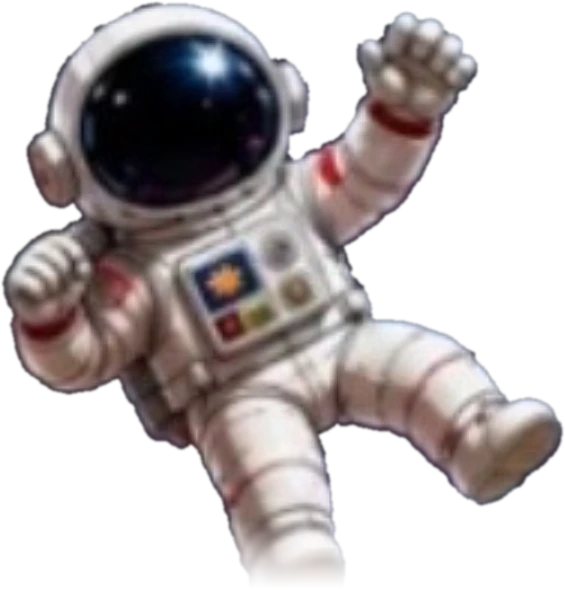
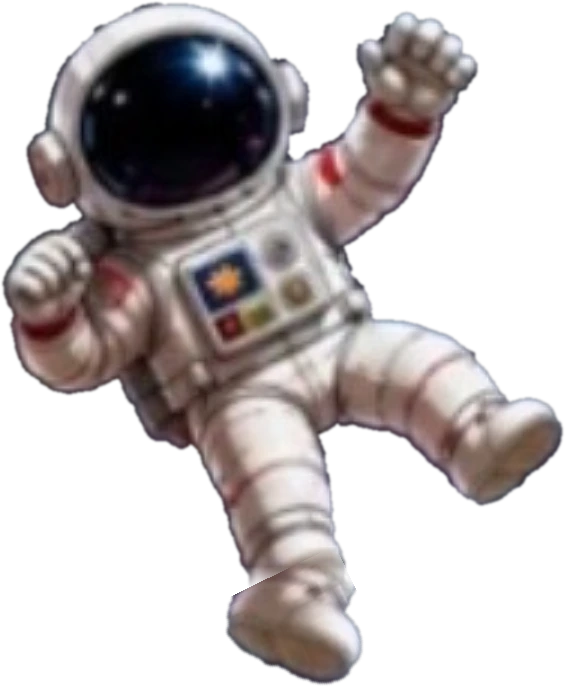
Young Explorers: astronaut's left foot completed with a boot, bus front finished (second eye, headlight, fender, bumper end)

diff --git a/designs/young-explorers-early-learning-academy/index.html b/designs/young-explorers-early-learning-academy/index.html
@@ -93,7 +93,7 @@
   .hero-art { --bleed: 0px; --bus: 0.94; }
   .bus-wrap { position: relative; z-index: 1; width: calc((100% + var(--bleed)) * var(--bus)); margin-left: auto; margin-right: calc(-1 * var(--bleed)); animation: hover 5s ease-in-out infinite; }
   .hero-art .bus { display: block; width: 100%; height: auto; filter: drop-shadow(0 18px 24px rgba(0,0,0,.45));
-    -webkit-mask-image: linear-gradient(to right, transparent 0, #000 9%, #000 94%, transparent 100%); mask-image: linear-gradient(to right, transparent 0, #000 9%, #000 94%, transparent 100%); }
+    -webkit-mask-image: linear-gradient(to right, transparent 0, #000 9%); mask-image: linear-gradient(to right, transparent 0, #000 9%); }
   .hero-art svg.smoke { position: absolute; left: -2%; bottom: -3%; width: 50%; height: 14%; margin: 0; z-index: 2; filter: drop-shadow(0 0 12px rgba(199,205,235,.5)); }
   @keyframes hover { 0%, 100% { transform: translateY(0) rotate(-1deg); } 50% { transform: translateY(-10px) rotate(0.5deg); } }
   @media (prefers-reduced-motion: reduce) { .bus-wrap { animation: none; } }
@@ -328,12 +328,12 @@
             <path d="M-7 40c0 18 7 30 7 30s7-12 7-30z" fill="url(#flame)" transform="rotate(180 0 55) translate(0 -30)"/>
           </g>
           <!-- astronaut (2026-11-22): Johnathon's own reference picture, cut out of its space background (astronaut.webp, 565x590) -->
-          <image href="astronaut.webp" x="150" y="28" width="158" height="165" preserveAspectRatio="xMidYMid meet"/>
+          <image href="astronaut.webp" x="150" y="24" width="158" height="192" preserveAspectRatio="xMidYMid meet"/>
           <!-- sparkles -->
           <g fill="#FFE9A8"><path d="M470 200l4 10 10 4-10 4-4 10-4-10-10-4 10-4z"/><path d="M40 230l3 7 7 3-7 3-3 7-3-7-7-3 7-3z"/></g>
         </svg>
         <div class="bus-wrap">
-          <img class="bus" src="blast-off-bus.webp" width="960" height="673" alt="The Young Explorers Early Learning Academy school bus blasting off, with kids waving from the windows">
+          <img class="bus" src="blast-off-bus.webp" width="995" height="673" alt="The Young Explorers Early Learning Academy school bus blasting off, with kids waving from the windows">
           <svg class="smoke" viewBox="0 0 500 90" preserveAspectRatio="none" aria-hidden="true">
             <defs><radialGradient id="puff" cx="45%" cy="40%" r="60%"><stop offset="0" stop-color="#FFFFFF"/><stop offset=".7" stop-color="#E4E7F7"/><stop offset="1" stop-color="#C7CDEB"/></radialGradient></defs>
             <g fill="url(#puff)">
